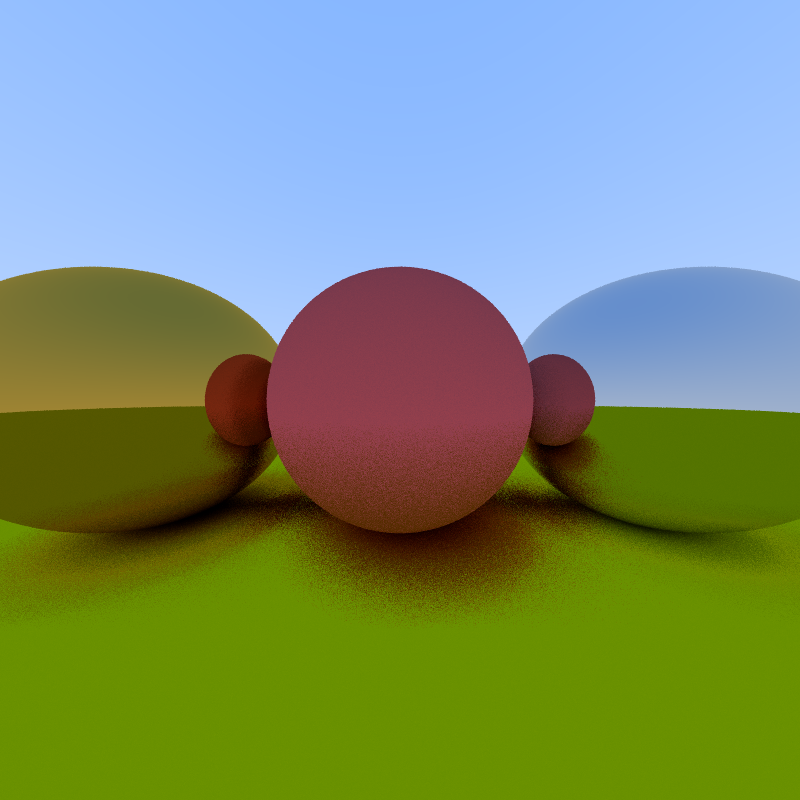
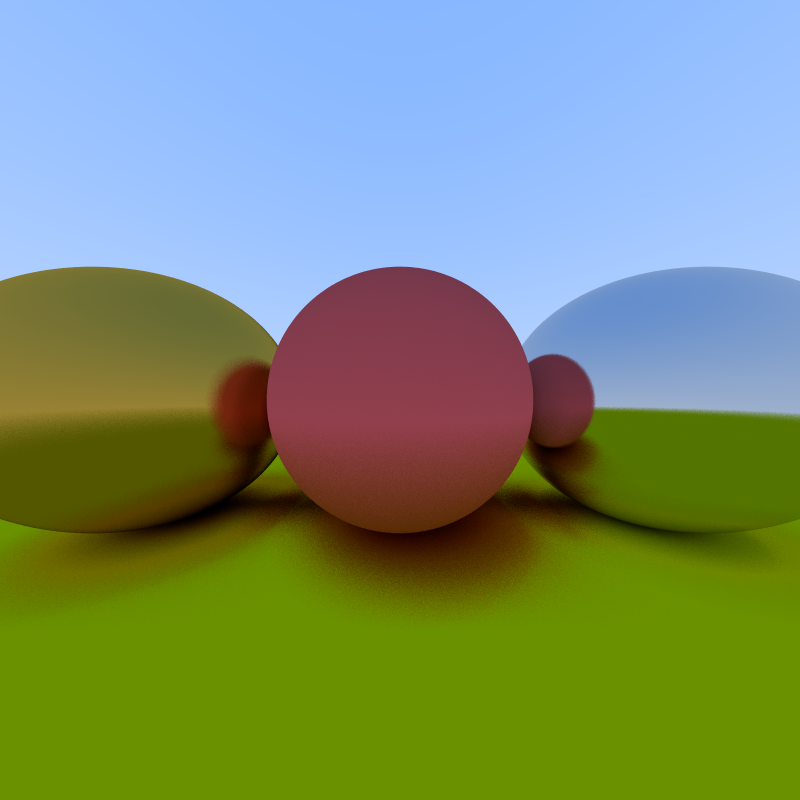
Final commit

diff --git a/src/main.rs b/src/main.rs
@@ -39,7 +39,7 @@ fn main() {
             primitive: Primitive::Sphere(Sphere::new(Vector3::new(-1.0, 0.0, -1.0), 0.5)),
             material: Material::Metal(Metal {
                 albedo: Vector3::new(0.8, 0.8, 0.8),
-                fuzz: 0.0,
+                fuzz: 0.1,
             }),
         },
         Object {
@@ -51,6 +51,6 @@ fn main() {
     ];
     let world = World { objects };
 
-    let image = cam.render(10, |ray| world.color(ray));
+    let image = cam.render(100, |ray| world.color(ray));
     image.save("render.png").unwrap();
 }

diff --git a/src/math.rs b/src/math.rs
@@ -89,6 +89,19 @@ impl World {
     }
 }
 
+pub fn refract(v: Vector3<f32>, normal: Vector3<f32>, ni_nt: f32) -> Option<Vector3<f32>> {
+    let uv = v.normalize();
+    let dt = uv.dot(normal);
+    let discr = 1.0 - ni_nt * ni_nt * (1.0-dt*dt);
+    if discr > 0.0 {
+        let refracted = ni_nt * (uv - normal * dt) - normal * discr.sqrt();
+        Some(refracted)
+    }
+    else{
+        None
+    }
+}
+
 pub fn reflect(v: Vector3<f32>, normal: Vector3<f32>) -> Vector3<f32> {
     v - 2.0 * InnerSpace::dot(v, normal) * normal
 }

diff --git a/src/material.rs b/src/material.rs
@@ -1,4 +1,4 @@
-use math::{random_in_unit_sphere, reflect, InnerSpace, Intersect, Ray, Rayhit, Vector3};
+use math::{random_in_unit_sphere, reflect, refract, InnerSpace, Intersect, Ray, Rayhit, Vector3};
 use primitive::Primitive;
 
 pub trait Surface {
@@ -61,6 +61,7 @@ pub struct Metal {
     pub albedo: Vector3<f32>,
     pub fuzz: f32,
 }
+
 impl Metal {
     pub fn scatter(&self, ray_in: Ray, rayhit: Rayhit) -> Option<Scatter> {
         let reflect = reflect(ray_in.dir, rayhit.normal) + self.fuzz * random_in_unit_sphere();
